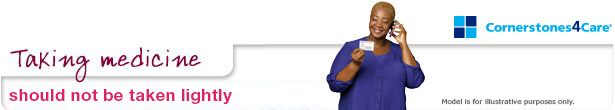
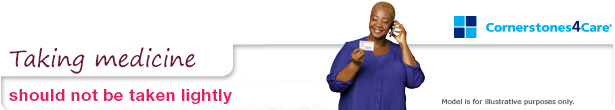
Header text update to match font
header text is changed, their was no psd, or font so it was match

Changed region(s): [[0.0, 0.4364, 0.3398, 0.7636]]

diff --git a/Conv Exist Mem Vic 001 A EM 3/CRX_VTZ_EM3_0713_00017259_1.html b/Conv Exist Mem Vic 001 A EM 3/CRX_VTZ_EM3_0713_00017259_1.html
@@ -20,12 +20,12 @@
 
 	<tr>
 	<td>
-		<table width="649" cellpadding="0" cellspacing="0" border="0" align="center"><!--Center-->
+		<table width="615" cellpadding="0" cellspacing="0" border="0" align="center"><!--Center-->
 		
 				<tr><td height="10" valign="top" ></td></tr>
 				
 				<tr>
-				  <td style="font-family:Verdana, arial; font-size:9px; color:#9c9c9c; line-height:11px" valign="top" align="center">Having trouble viewing this message? <a href="http://23.21.82.30/~rtcdevteam/clients/pfizer/LIRvictoza/EM1/CRX_VTZ_EM1_0713_00017259_1.html" style="color:#009ddb; text-decoration:underline">View the web version.</a></td>
+				  <td style="font-family:Verdana, arial; font-size:9px; color:#9c9c9c; line-height:11px" valign="top" align="center">Having trouble viewing this message? <a href="http://23.21.82.30/~rtcdevteam/clients/pfizer/LIRvictoza/EM3/CRX_VTZ_EM3_0713_00017259_1.html" target="_blank" style="color:#009ddb; text-decoration:underline">View the web version.</a></td>
 				</tr>
 				
 				<tr>
@@ -46,7 +46,7 @@
 				
 				<tr>
 				<td>
-				<table width="649" cellpadding="0" cellspacing="0" border="0" align="left"><!--Two Column-->
+				<table width="615" cellpadding="0" cellspacing="0" border="0" align="left"><!--Two Column-->
 				<tr>
 				
 						<td>

diff --git a/Conv Exist Mem Vic 001 A EM 2/CRX_VTZ_EM2_0713_00017257_1.html b/Conv Exist Mem Vic 001 A EM 2/CRX_VTZ_EM2_0713_00017257_1.html
@@ -25,7 +25,7 @@
 				<tr><td height="10" style="font-size: 2px; line-height: 10px;">&nbsp;</td></tr>
 				
 				<tr>
-				  <td style="font-family:Verdana, arial; font-size:9px; color:#9c9c9c; line-height:11px" valign="top" align="center">Having trouble viewing this message? <a href="http://23.21.82.30/~rtcdevteam/clients/pfizer/LIRvictoza/EM1/CRX_VTZ_EM1_0713_00017257_1.html" style="color:#009ddb; text-decoration:underline">View the web version.</a></td>
+				  <td style="font-family:Verdana, arial; font-size:9px; color:#9c9c9c; line-height:11px" valign="top" align="center">Having trouble viewing this message? <a href="http://23.21.82.30/~rtcdevteam/clients/pfizer/LIRvictoza/EM2/CRX_VTZ_EM2_0713_00017257_1.html" target="_blank" style="color:#009ddb; text-decoration:underline">View the web version.</a></td>
 				</tr>
 				
 				<tr>

diff --git a/Conv Exist Mem Vic 001 A EM 1/CRX_VTZ_EM1_0713_00017256_1.html b/Conv Exist Mem Vic 001 A EM 1/CRX_VTZ_EM1_0713_00017256_1.html
@@ -25,7 +25,7 @@
 				<tr><td height="10" valign="top" ></td></tr>
 				
 				<tr>
-				  <td style="font-family:Verdana, arial; font-size:9px; color:#9c9c9c; line-height:11px" valign="top" align="center">Having trouble viewing this message? <a href="http://23.21.82.30/~rtcdevteam/clients/pfizer/LIRvictoza/EM1/CRX_VTZ_EM1_0713_00017256_1.html" style="color:#009ddb; text-decoration:underline">View the web version.</a></td>
+				  <td style="font-family:Verdana, arial; font-size:9px; color:#9c9c9c; line-height:11px" valign="top" align="center">Having trouble viewing this message? <a href="http://23.21.82.30/~rtcdevteam/clients/pfizer/LIRvictoza/EM1/CRX_VTZ_EM1_0713_00017256_1.html" target="_blank" style="color:#009ddb; text-decoration:underline">View the web version.</a></td>
 				</tr>
 				
 				<tr>
